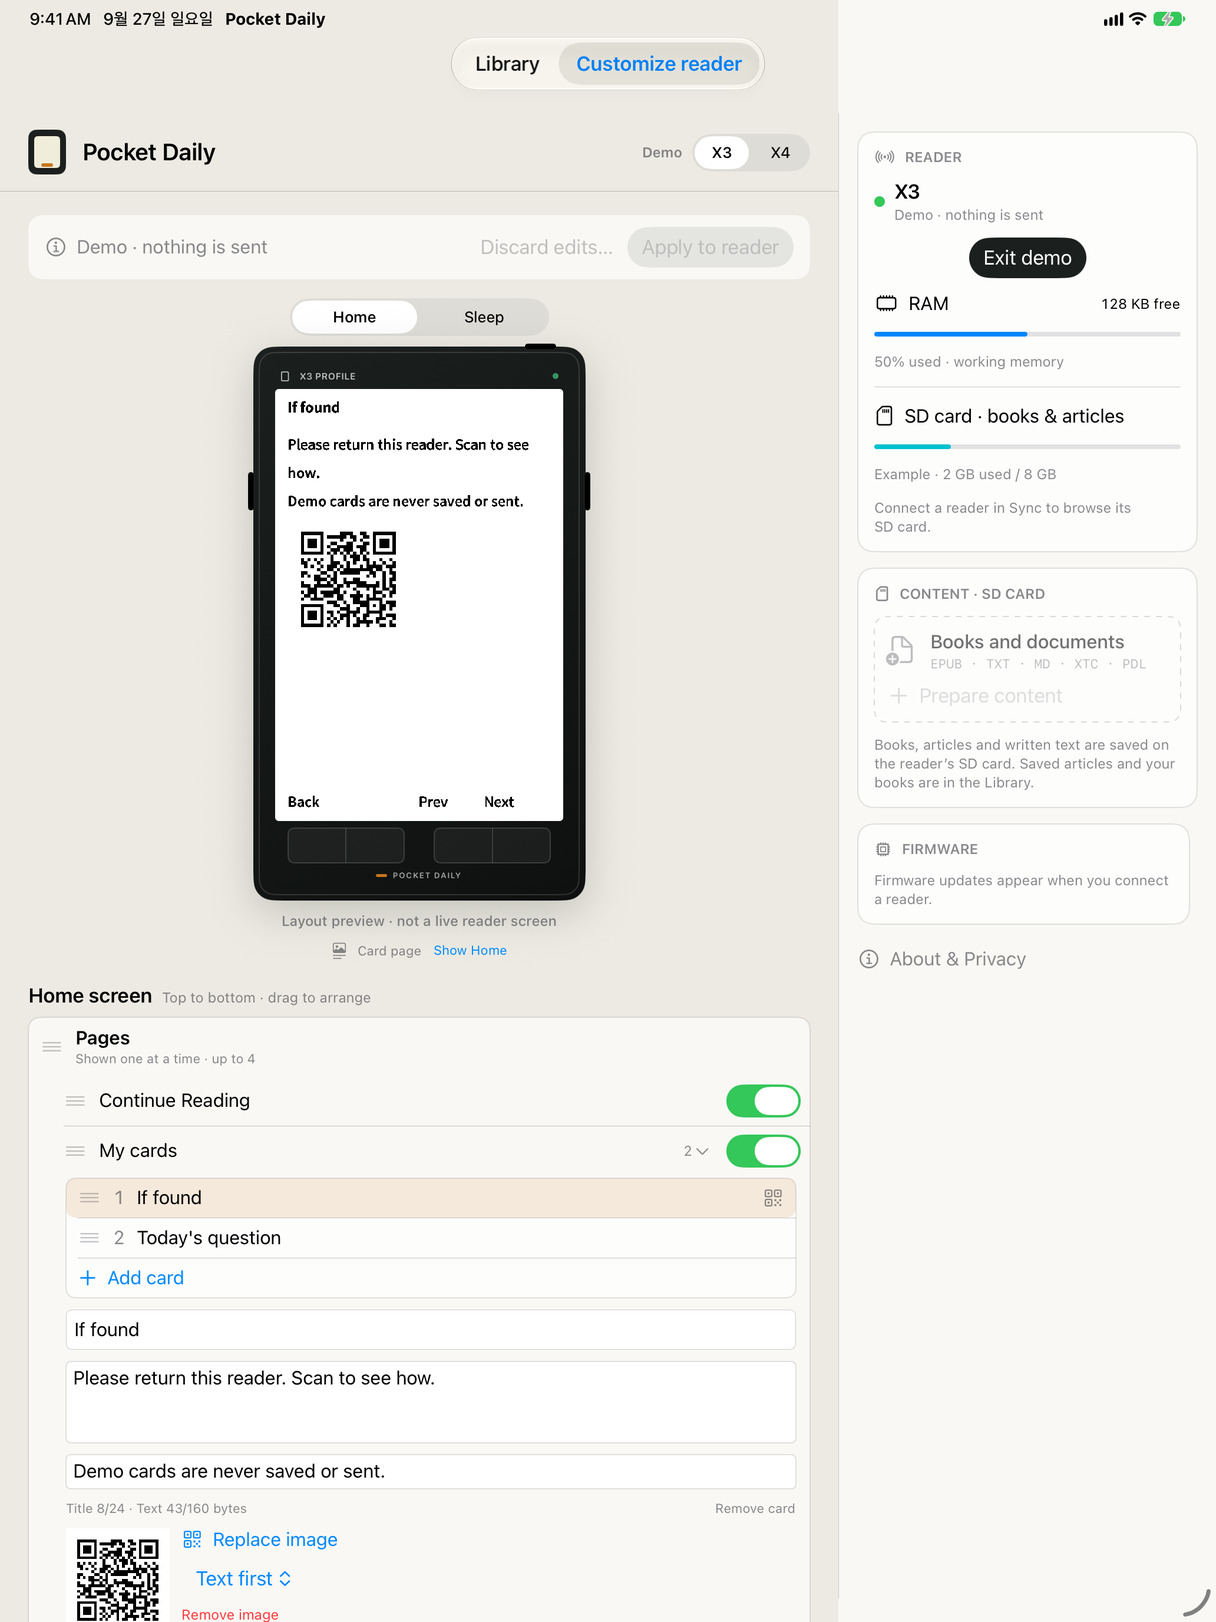
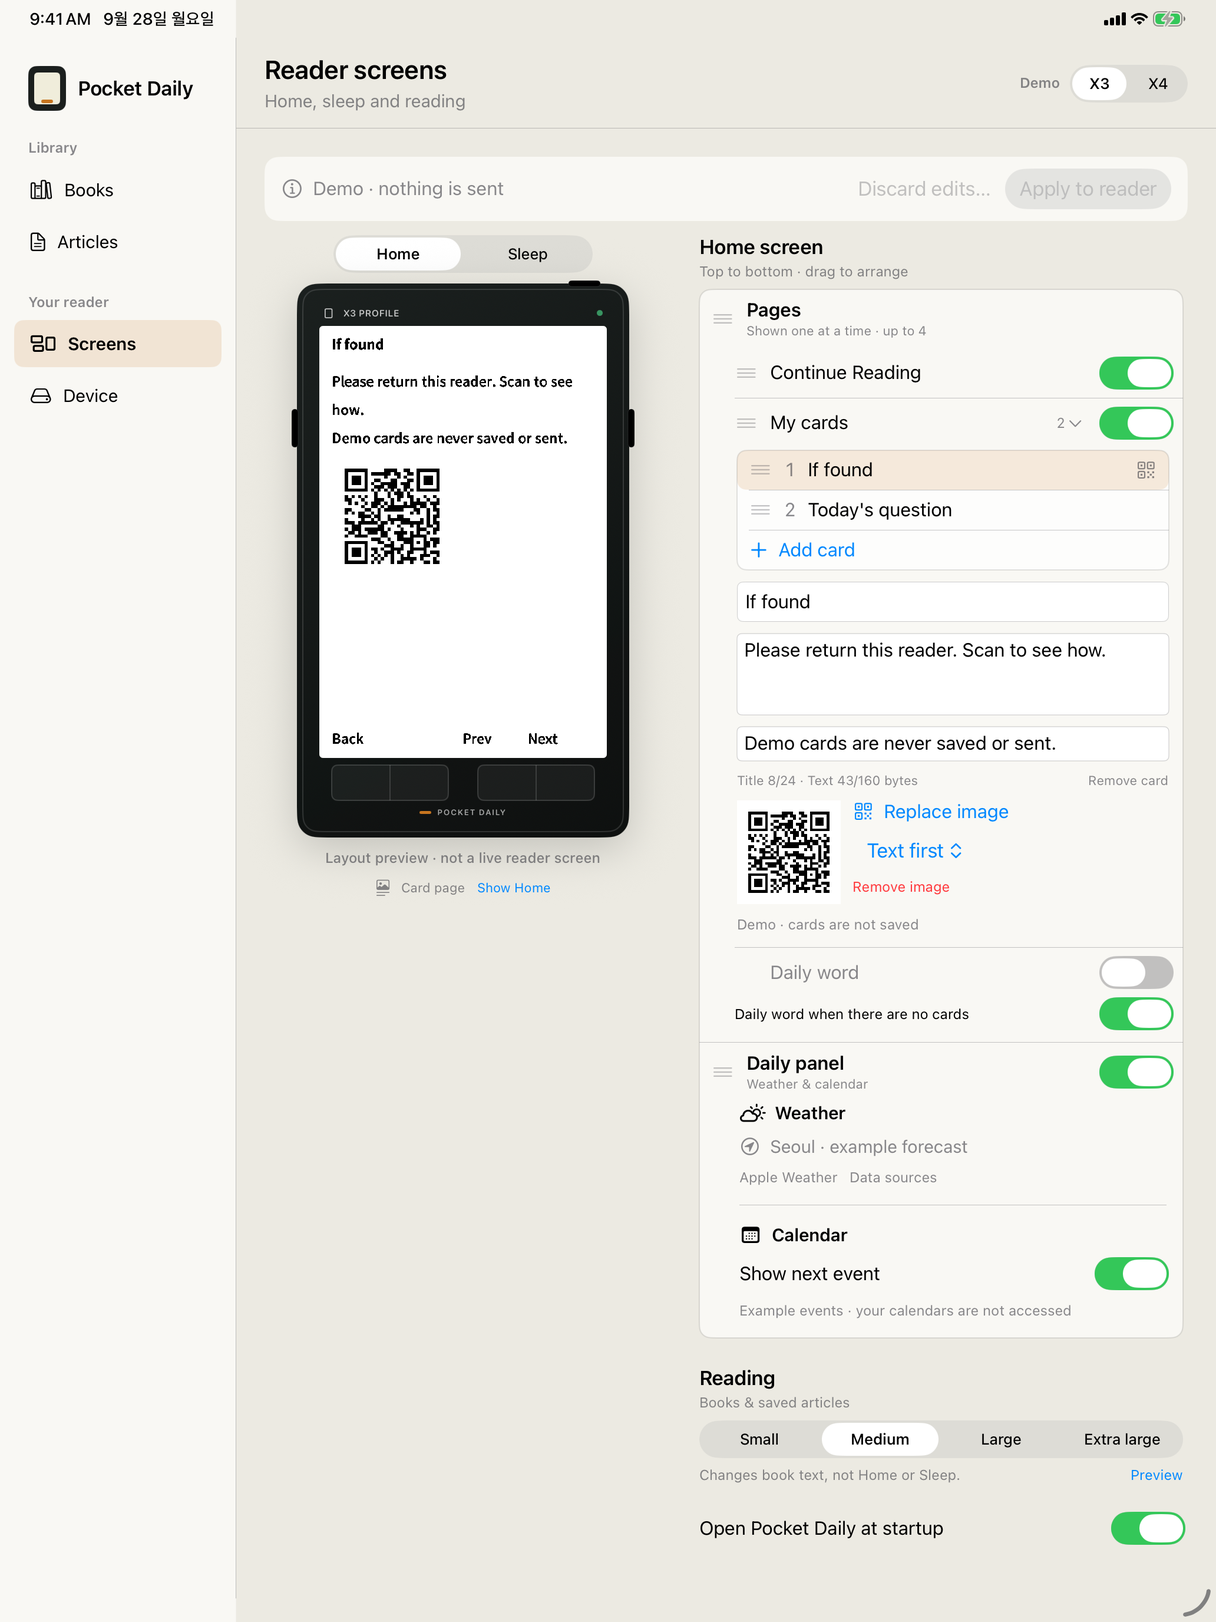
store: screenshots and metadata for Screens, Device and feed subscriptions
Regenerated 6 iPhone, 7 iPad and 6 Mac screenshots from the shipping
views; review notes follow the new navigation; privacy text covers direct
feed requests.

diff --git a/docs/support/index.html b/docs/support/index.html
@@ -16,10 +16,12 @@
 
   <section class="grid">
     <article class="card"><h2>Reading books</h2><p>Add DRM-free EPUB, TXT or Markdown files with + in the Library. Tap the sides of the page to turn, the middle for Contents and text settings. Books bought with DRM cannot be opened.</p></article>
-    <article class="card"><h2>Continue reading</h2><p>Your place follows you through iCloud on devices signed in to the same Apple ID, and is exchanged with your X3/X4 reader while it is connected. Turn either off in Library → Continue Reading.</p></article>
-    <article class="card"><h2>No reader found</h2><p>Keep both devices awake and nearby. Confirm Bluetooth and Local Network access, or use the reader's Create Hotspot fallback.</p></article>
-    <article class="card"><h2>Try the interface</h2><p>Open Reader and choose Try demo. Demo mode is local and disables transfer and device changes.</p></article>
-    <article class="card"><h2>Update the reader</h2><p>Connect over the same Wi-Fi and tap Update reader in the Reader panel. Pocket Daily downloads the latest official <a href="https://github.com/puritysb/pocket-daily-firmware/releases/latest">firmware release</a>, checks it and sends it; the reader asks before installing when you leave its transfer screen. A reader still on factory firmware needs a one-time USB install (see the firmware README).</p></article>
+    <article class="card"><h2>Articles and subscriptions</h2><p>Open Library → Articles → + → Subscriptions and paste a direct HTTPS RSS or Atom feed URL. New articles refresh when you open the app or choose Refresh. Tap a saved body to read offline. Use the article menu to save it for later, mark it read or unread, edit its text, or prepare it for your reader. Link-only entries need Get full text or pasted text before reading. Unsubscribing keeps your articles. Email-only newsletters can be added by sharing their web link or text; email accounts and article-library cloud sync are not supported.</p></article>
+    <article class="card"><h2>Continue reading</h2><p>Your place follows you through iCloud on devices signed in to the same Apple ID, and is exchanged with your X3/X4 reader while it is connected. Turn either off in Library → Library options (•••) → Continue Reading.</p></article>
+    <article class="card"><h2>No reader found</h2><p>Keep both devices awake and nearby. Confirm Bluetooth and Local Network access, or use the reader's Create Hotspot fallback. Cancel search stops same-Wi-Fi discovery; Cancel connection stops a pending direct connection. Wait for cleanup to finish before retrying.</p></article>
+    <article class="card"><h2>Arrange your reader screens</h2><p>Open Screens to arrange Home and Sleep while keeping the preview in view. The Home Daily panel groups Weather and Calendar; weather attribution stays beside the forecast source. Open Device for connections, file transfers and firmware updates.</p></article>
+    <article class="card"><h2>Try the interface</h2><p>Open Device and choose Try demo. Demo mode is local and disables transfer and device changes.</p></article>
+    <article class="card"><h2>Update the reader</h2><p>Connect over the same Wi-Fi and tap Update reader in the Device screen. Pocket Daily downloads the latest official <a href="https://github.com/puritysb/pocket-daily-firmware/releases/latest">firmware release</a>, checks it and sends it; the reader asks before installing when you leave its transfer screen. A reader still on factory firmware needs a one-time USB install (see the firmware README).</p></article>
     <article class="card"><h2>Firmware safety</h2><p>Use only firmware built for the exact hardware profile. Pocket Daily stages the file; installation is confirmed separately on the reader.</p></article>
     <article class="card"><h2>Report a problem</h2><p>Export the in-app connection log or crash report, remove secrets, and attach it to a <a href="https://github.com/puritysb/pocket-daily/issues/new">GitHub issue</a>.</p></article>
   </section>

diff --git a/docs/privacy/index.html b/docs/privacy/index.html
@@ -30,8 +30,9 @@
   <h2>Files and diagnostics</h2>
   <p>Files are never uploaded to a Pocket Daily server. Prepared files stay in the app until sent successfully or removed from the prepared list. Reader IDs and pending firmware versions are stored locally for retries and installation checks. Reader crash reports may be archived locally for diagnosis and leave the device only when the user explicitly exports them. Removing the app deletes data held in its app container; files already copied to a reader, SD card, or user-selected folder remain under the user's control.</p>
 
-  <h2>Articles saved for later</h2>
+  <h2>Articles and subscriptions</h2>
   <p>Sharing a link or choosing Get article text requests the selected HTTPS page and its HTTPS redirects directly from the publisher. The publisher sees your network address and URL. Pocket Daily sends no browser cookies or reader information, executes no page scripts, and fetches no embedded images. You review extracted text before saving; if extraction fails, save the link or paste selected text. Article titles, links and text stay in the app’s local shared container until explicitly deleted. Sending or deleting a reader copy leaves the app copy intact. No extraction service receives your articles.</p>
+  <p>Subscribing to an HTTPS RSS or Atom feed fetches that feed and attempts to save its latest 20 articles from feed text or original publisher pages. Refresh happens when you subscribe, open the app (at most once per five minutes), or choose Refresh. Requests carry no browser cookies or account credentials; scripts, embedded images and tracking pixels are not loaded. There is no email account connection, server relay or scheduled background delivery. Subscriptions, article text, read state and saved state stay on this device. Unsubscribing retains collected articles; deleting a feed article leaves local identity hashes to prevent it reappearing on refresh. On Mac, data is stored in the app’s local Application Support directory.</p>
 
   <h2>Third parties and children</h2>
   <p>Pocket Daily contains no third-party analytics or advertising SDK. The app does not knowingly collect personal information from anyone, including children, because it does not collect information through a developer-operated service.</p>

diff --git a/appstore/review/NOTES.md b/appstore/review/NOTES.md
@@ -1,14 +1,14 @@
 # App Review notes
 
-Pocket Daily is a local-first companion for separately obtained X3/X4-class e-paper hardware running Pocket Daily or compatible CrossPoint-based firmware. It does not support a manufacturer's factory firmware or cloud service. No login, purchase, subscription, or remote service is required.
+Pocket Daily is an account-free, distraction-free e-book reader for iPhone, iPad and Mac, and the companion for separately obtained X3/X4-class e-paper hardware running Pocket Daily or compatible CrossPoint-based firmware. Reading needs no hardware. It does not support a manufacturer's factory firmware or cloud service. No login, purchase, subscription, or remote service is required.
 
 ## Review without hardware
 
-1. Launch Pocket Daily. It opens on **Home & Sleep**.
-2. Open **Reader** (a tab on iPhone; the panel on the right on iPad and Mac) and choose **Try demo**.
-3. On **Home & Sleep**, switch between the **Home** and **Sleep** screens above the preview, then turn Home pages or sleep sections on and off, drag them into order, or move the weather panel. The preview is drawn by the reader's own layout code with a sample card and built-in sample content and is captioned as sample content; nothing in it is read from a device. **My cards** (opened from its Home page) holds a sample card; its image menu makes a QR code on the device. Under **Weather and events**, typing a city fetches Apple Weather for that city (no location permission); turning on calendar events asks for Calendar access and reads only today's events, which are sent to a connected reader and nowhere else.
-4. Reader settings are populated in demo mode. Apply, applying settings and sending files are intentionally disabled because no physical reader is connected.
-5. Choose **Exit demo** under Reader to return to normal discovery.
+1. Launch Pocket Daily. It opens on the **Library**, which holds a short original guide, "Welcome to Pocket Daily". Tap it to read: tap the right or left side of the page to turn, the middle for Contents, Aa (text and page) and the way back to the Library. On Mac the book opens in the same window.
+2. Add DRM-free EPUB, TXT or Markdown files with **+**, or save an article from Safari's share sheet and read it under **Articles**. **+ → Subscriptions** accepts a direct HTTPS RSS or Atom feed URL; feeds are fetched directly from the publisher when subscribing, when the app becomes active (at most once every five minutes) and on manual refresh. Demo mode never fetches feeds.
+3. Library options (the ellipsis menu) → **Continue Reading** shows iCloud key-value storage between the user's own Apple devices and exchange with a connected reader over the local connection; neither needs an account or setup.
+4. For the companion without a reader, open **Device** (a tab in compact windows, a sidebar item on iPad and Mac) and choose **Try demo**. **Screens** then shows the reader's Home and Sleep screens drawn by the reader's own layout code with a sample card and built-in sample content, captioned as sample content; nothing in them is read from a device. Switch between Home and Sleep above the preview, turn Home pages or sleep sections on and off and drag them into order. **My cards** (opened from its Home page) holds a sample card; its image menu makes a QR code on the device. Under **Weather**, typing a city fetches Apple Weather for that city (no location permission); under **Calendar**, turning on events asks for Calendar access outside demo and reads only today's events, which are sent to a connected reader and nowhere else.
+5. Reader settings are populated in demo mode. Apply, applying settings and sending files are intentionally disabled because no physical reader is connected. Choose **Exit demo** under Device to return to normal discovery.
 
 The submitted screenshot build can also be launched with `--demo` by the development team; reviewers do not need launch arguments because the same mode is visible in the interface.
 
@@ -28,7 +28,7 @@ The submitted screenshot build can also be launched with `--demo` by the develop
 5. Successful direct batches release the temporary connection. New firmware also
    exits the private session. Firmware still requires reader-side confirmation;
    reconnect to verify the version for an identified reader.
-6. Update reader (Reader panel, only while a real reader is connected on the
+6. Update reader (Device, only while a real reader is connected on the
    same Wi-Fi; hidden in demo mode) downloads the latest official firmware from
    the developer's public GitHub releases only when tapped, validates it, shows
    the firmware warning and sends it. The reader asks before installing. The

diff --git a/APP_STORE_REVIEW.md b/APP_STORE_REVIEW.md
@@ -20,17 +20,17 @@ The app opens on the **Library**, which already holds a short original guide,
 page to turn, the middle for controls (Contents, Aa text and page settings,
 Library). Add more DRM-free EPUB, TXT or Markdown files with **+** (Files), or
 save an article from Safari's share sheet and read it under **Articles**. On
-Mac, a book opens in its own window. No account, network or hardware is needed
+Mac, a book opens in the same app window. No account, network or hardware is needed
 for reading.
 
-The circular-arrows button in the Library shows **Continue Reading**: iCloud
+Library options (the ellipsis menu) → **Continue Reading** shows: iCloud
 key-value storage between the user's own Apple devices (on by default, no
 setup) and exchange with a connected X3/X4 reader over the local connection.
 Neither needs an account.
 
 The companion has an explicit, local demo mode for review without a reader:
-open **Reader** (a tab on iPhone; on iPad and Mac the panel on the right of
-**Customize reader**) and choose **Try demo**. **Customize reader** then
+open **Device** (a tab in compact windows, a sidebar item on iPad and Mac)
+and choose **Try demo**. **Screens** then
 shows previews drawn by the reader's own layout code with a sample card and
 built-in sample content, captioned as sample content; nothing in them is read
 from a device. Switch between the Home and Sleep screens above the preview;
@@ -113,13 +113,23 @@ The bundled privacy manifest declares app-only UserDefaults and user-selected
 file-metadata access; the app does not track or collect data. See
 [`PRIVACY.md`](PRIVACY.md).
 
-## Article library development — 2026-09-27
+## Article library development — 2026-09-28
 
-The working tree adds Files → Add → Articles, local article retention, explicit
-EPUB preparation, and an iOS/iPadOS Share → Pocket Daily extension. macOS uses
-Add article to paste a link or text. HTTPS page retrieval is user initiated;
-review the extracted text before saving. Link-only saves cannot be prepared
-until text is added. No reader is needed to save or review articles.
+Library → Articles supports saved links/text and local RSS 2.0 / Atom 1.0 subscriptions.
+Choose + → Subscriptions and paste a direct HTTPS feed URL. The latest 20 entries per
+feed are collected on subscription, app activation (at most once per five minutes), or
+manual refresh. There is no email account integration or scheduled background delivery.
+Feed-provided full text and extracted original pages are saved for offline reading.
+Extraction failures keep a link and preview; Get full text allows retry or pasted text.
+Subscriptions and page requests go directly to publishers without browser cookies,
+credentials, scripts, images or an extraction service. Demo mode does not fetch feeds.
+
+Tap an offline article to read in the app; its menu offers Save for later, read/unread,
+Edit article, Prepare for reader and Delete. Reading and saving are independent.
+Unsubscribing retains collected articles; refresh does not restore deleted feed articles.
+Content, subscriptions and these flags stay on this device. Reader preparation and
+sending remain explicit and use the existing EPUB format. The iOS/iPadOS Share →
+Pocket Daily extension and + → Add article remain available for manual captures.
 
 The app and extension require the App Group `group.bound.serendipity.pocket.daily`.
 The extension bundle ID is `bound.serendipity.pocket.daily.share`. Registering

diff --git a/appstore/screenshots/README.md b/appstore/screenshots/README.md
@@ -2,18 +2,19 @@
 
 Every file is actual Pocket Daily 1.0 demo-mode UI, produced by
 `scripts/capture_screenshots.sh` and flattened to an opaque PNG at an accepted
-size. Regenerated on 2026-09-25 for the Home & Sleep studio.
+size. Regenerated on 2026-09-28 for Library, Screens and Device navigation.
 
 | Destination | Directory | Dimensions | Files |
 |---|---|---:|---|
-| iPhone 6.9-inch | `en-US/iphone-6.9` | 1320 × 2868 | `01-home-x3`, `02-sleep-x3`, `03-cards`, `04-reader` |
-| iPad 13-inch | `en-US/ipad-13` | 2064 × 2752 | `01-home-x3`, `02-sleep-x3`, `03-cards`, `04-home-x4` |
-| Mac | `en-US/mac-16x10` | 2880 × 1800 | `01-home-x3`, `02-card-x3`, `03-sleep-x4` |
+| iPhone 6.9-inch | `en-US/iphone-6.9` | 1320 × 2868 | `01-reading`, `02-library`, `03-home-x3`, `04-cards`, `05-device`, `06-articles` |
+| iPad 13-inch | `en-US/ipad-13` | 2064 × 2752 | `01-reading`, `02-library`, `03-home-x3`, `04-cards`, `05-home-x4`, `06-articles`, `07-device` |
+| Mac | `en-US/mac-16x10` | 2880 × 1800 | `01-library`, `02-home-x3`, `03-card-x3`, `04-sleep-x4`, `05-articles`, `06-device` |
 
-Every set opens on Home & Sleep. The iPhone keeps reader controls in a Reader
-tab, so it earns a Reader shot; iPad already shows them beside the studio and
-shows the X4 instead. The Mac set is rendered off-screen from one state per
-shot (Home, a card page, the X4 sleep frame), so it carries three. `validate_app_store.sh` enforces the counts and
+Reading and the Library lead the sets. Screens holds the Home/Sleep editor
+and its persistent preview; Device holds connection, files and firmware.
+Articles shows subscriptions populated from local publisher fixtures.
+The iPhone set has six images, iPad seven, and Mac six. Mac is rendered
+off-screen from the same shipping views. `validate_app_store.sh` enforces the counts and
 that no two files in a device class are identical — a byte-identical pair is
 how a layout-dependent capture step silently no-ops.
 
@@ -28,12 +29,12 @@ how a layout-dependent capture step silently no-ops.
 
 Suggested App Store Connect captions:
 
-1. **Arrange your reader's Home screen** (`01-home-x3`)
-2. **Compose the Daily Brief it shows while asleep** (`02-sleep-x3`,
-   `03-sleep-x4` on Mac)
-3. **Write your own cards, with QR codes** (`03-cards`, `02-card-x3` on Mac)
-4. **Connect and send books or text** (`04-reader`), or **X3 and X4 layouts**
-   (`04-home-x4`)
+1. **Read with room to focus** (`01-reading`)
+2. **Your books, ready offline** (`02-library`, `01-library` on Mac)
+3. **Arrange your reader’s screens** (`03-home-x3`, `02-home-x3` on Mac)
+4. **Make cards of your own** (`04-cards`, `03-card-x3` on Mac)
+5. **Keep your reading in one place** (`06-articles`, `05-articles` on Mac)
+6. **Connect, copy and update** (`05-device`, `07-device` on iPad, `06-device` on Mac)
 
 If the UI changes materially, rerun `scripts/capture_screenshots.sh` and commit
 the new set. Do not edit a new feature into an old screenshot.

diff --git a/PRIVACY.md b/PRIVACY.md
@@ -60,7 +60,7 @@ Pocket Daily does not read precise coordinates of the device. On macOS, location
 requested because the operating system gates nearby Wi-Fi network information
 behind that permission. On iOS, Wi-Fi changes use Apple's system confirmation.
 
-## Articles saved for later
+## Articles and subscriptions
 
 When you share an article link or tap Get article text, Pocket Daily requests
 the selected HTTPS page and its HTTPS redirects directly from its publisher.
@@ -68,11 +68,21 @@ The publisher sees your network address and the requested URL. The app does not
 send reader information, browser cookies, or an account login, execute page scripts,
 or request embedded images and other page resources. Extraction may fail on
 login-protected or script-dependent pages; you can save the link or paste selected
-text instead. Review the extracted text before saving.
+text instead. Review manually extracted text before saving.
+
+When you subscribe to an HTTPS RSS or Atom feed, Pocket Daily requests that feed
+and attempts to save the latest 20 articles, using feed text or requests to the
+original article URLs. These direct publisher requests happen when you subscribe,
+open the app (at most once per five minutes), or choose Refresh. They have the same
+cookie-free, script-free behaviour described above. There is no email account
+connection, tracking-pixel loading, server relay or scheduled background delivery.
+Subscription URLs, titles, read state and saved state stay on this device.
+Unsubscribing stops future collection and keeps all previously collected articles.
+Deleted feed articles leave local identity hashes so refresh does not restore them.
 
 Article links, titles and saved text stay in a local shared container used by the
-iOS share extension and the app. They remain until you explicitly delete them
-from Articles. Sending or deleting a reader copy does not delete the app copy.
+iOS share extension and the app. On macOS, they are stored in the app’s local Application Support directory.
+They remain until you explicitly delete them from Articles. Sending or deleting a reader copy does not delete the app copy.
 No article is sent to the developer or an extraction service.
 
 ## Storage, sharing, and retention

diff --git a/appstore/README.md b/appstore/README.md
@@ -84,13 +84,23 @@ Run `scripts/validate_app_store.sh` before archive. The validator intentionally
 keeps the account, build-upload, TestFlight, and physical-review evidence in
 `submission.json` as external release work rather than source repository defects.
 
-## Article library development — 2026-09-27
+## Article library development — 2026-09-28
 
-The working tree adds Files → Add → Articles, local article retention, explicit
-EPUB preparation, and an iOS/iPadOS Share → Pocket Daily extension. macOS uses
-Add article to paste a link or text. HTTPS page retrieval is user initiated;
-review the extracted text before saving. Link-only saves cannot be prepared
-until text is added. No reader is needed to save or review articles.
+Library → Articles supports saved links/text and local RSS 2.0 / Atom 1.0 subscriptions.
+Choose + → Subscriptions and paste a direct HTTPS feed URL. The latest 20 entries per
+feed are collected on subscription, app activation (at most once per five minutes), or
+manual refresh. There is no email account integration or scheduled background delivery.
+Feed-provided full text and extracted original pages are saved for offline reading.
+Extraction failures keep a link and preview; Get full text allows retry or pasted text.
+Subscriptions and page requests go directly to publishers without browser cookies,
+credentials, scripts, images or an extraction service. Demo mode does not fetch feeds.
+
+Tap an offline article to read in the app; its menu offers Save for later, read/unread,
+Edit article, Prepare for reader and Delete. Reading and saving are independent.
+Unsubscribing retains collected articles; refresh does not restore deleted feed articles.
+Content, subscriptions and these flags stay on this device. Reader preparation and
+sending remain explicit and use the existing EPUB format. The iOS/iPadOS Share →
+Pocket Daily extension and + → Add article remain available for manual captures.
 
 The app and extension require the App Group `group.bound.serendipity.pocket.daily`.
 The extension bundle ID is `bound.serendipity.pocket.daily.share`. Registering
